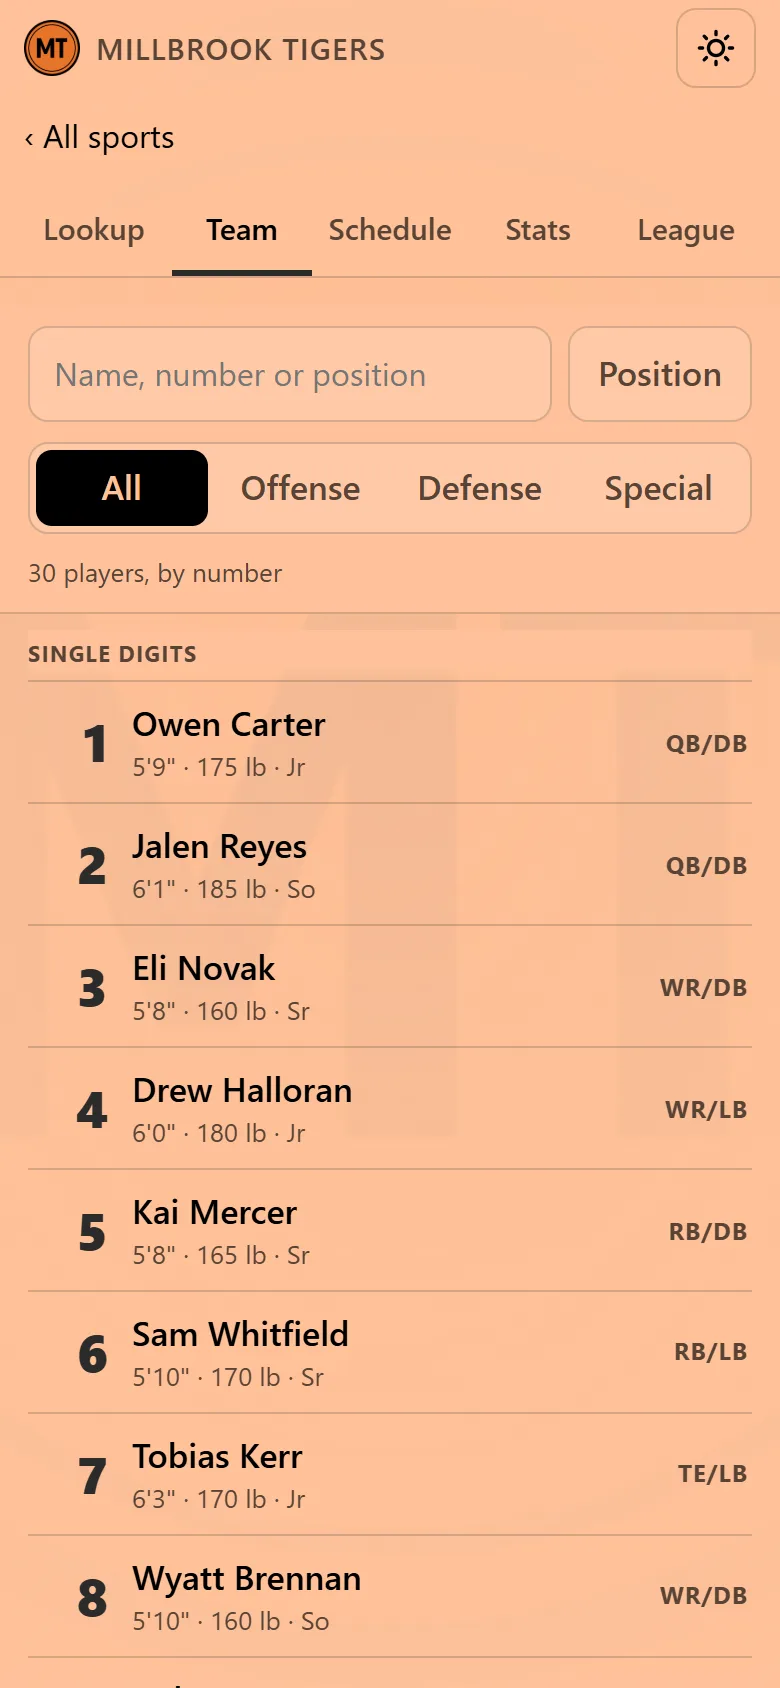
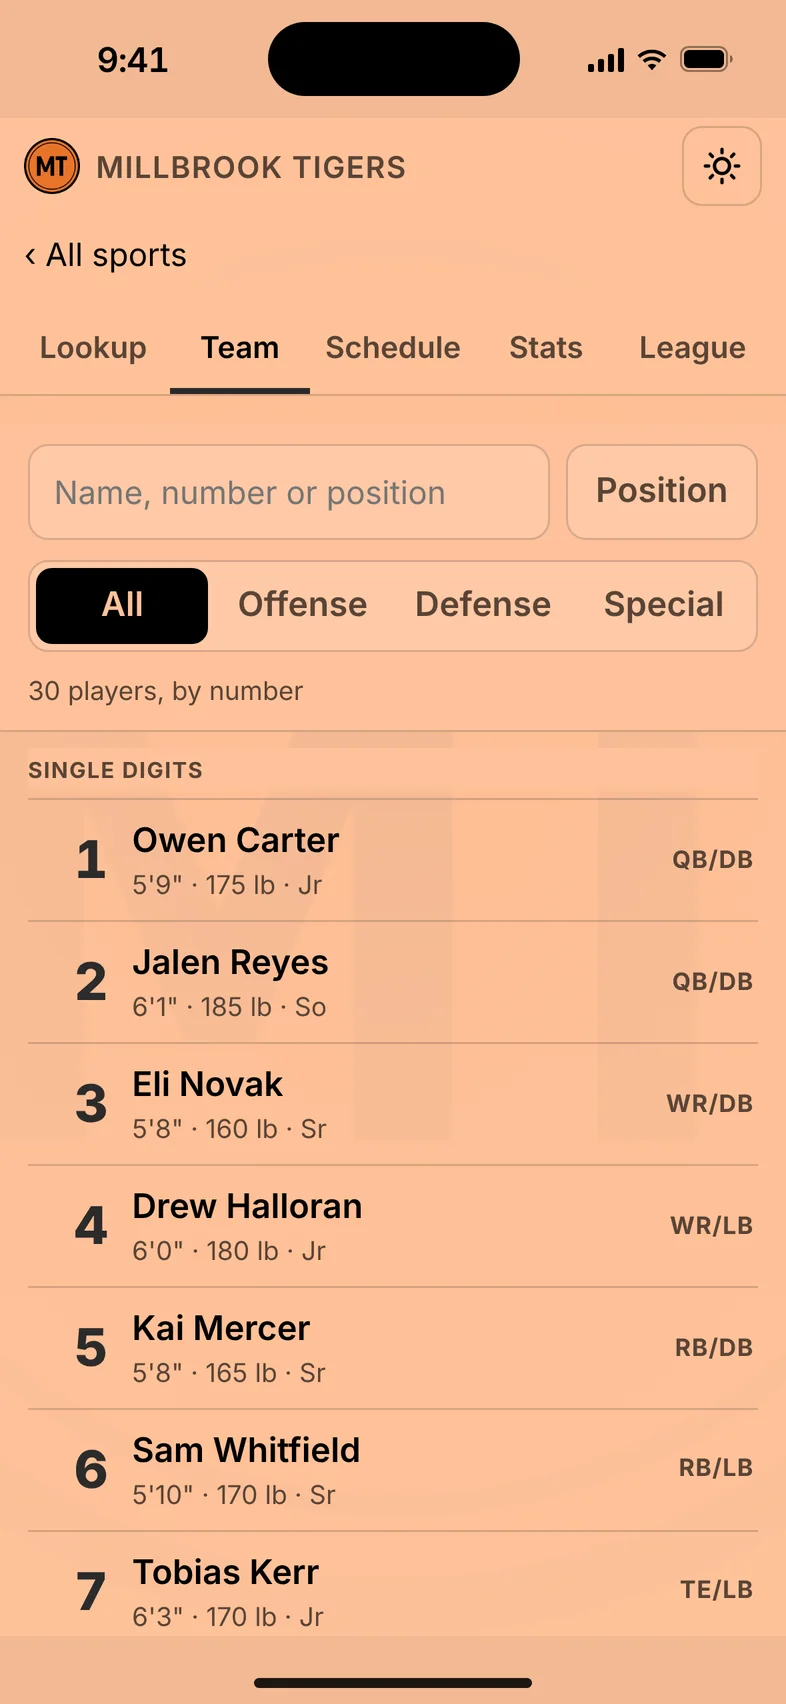
Show the marketing page's screens in real iPhones
The screenshots were flat browser windows in a thin dark border, set in
Segoe UI — nothing a family would see on their own phone. Each one is now a
whole iPhone 15 screen, with the status bar, Dynamic Island and home bar
painted on in the page's own edge colors and the type set in Inter, the
nearest shippable face to the San Francisco an iPhone would use. The page
draws the hardware around them (titanium band, bezel, buttons, glass,
studio shadow) in CSS sized to the figure, and turns the hero phone a
little toward the words on a wide screen. The share card uses the same
frame.

Claude-Session: https://claude.ai/code/session_01DdzeEaDRBYiFfuAv7dHuW6

diff --git a/marketing/index.html b/marketing/index.html
@@ -60,7 +60,7 @@
           </p>
         </div>
         <figure class="phone">
-          <img src="img/lookup.webp" width="390" height="844" alt="The Lookup screen: number 24 typed on a keypad, and the player wearing it above, with his position, size and class." />
+          <div class="device"><img src="img/lookup.webp" width="393" height="852" alt="The Lookup screen: number 24 typed on a keypad, and the player wearing it above, with his position, size and class." /></div>
         </figure>
       </section>
 
@@ -94,19 +94,19 @@
         <h2>A reason to open it every week.</h2>
         <div class="shots">
           <figure class="phone">
-            <img src="img/team.webp" width="390" height="844" loading="lazy" alt="The Team screen: a search box and offense, defense and special-teams filters, then the roster by jersey number with each player’s size, class and position." />
+            <div class="device"><img src="img/team.webp" width="393" height="852" loading="lazy" alt="The Team screen: a search box and offense, defense and special-teams filters, then the roster by jersey number with each player’s size, class and position." /></div>
             <figcaption><strong>Team</strong> Search by name, number or position.</figcaption>
           </figure>
           <figure class="phone">
-            <img src="img/schedule.webp" width="390" height="844" loading="lazy" alt="The Schedule screen: the next game with its kickoff time and forecast, the games still to come, then the games already played with their scores." />
+            <div class="device"><img src="img/schedule.webp" width="393" height="852" loading="lazy" alt="The Schedule screen: the next game with its kickoff time and forecast, the games still to come, then the games already played with their scores." /></div>
             <figcaption><strong>Schedule</strong> The next game first, with the weather at kickoff.</figcaption>
           </figure>
           <figure class="phone">
-            <img src="img/league.webp" width="390" height="844" loading="lazy" alt="The League screen: a conference standings table with each school’s conference and overall record." />
+            <div class="device"><img src="img/league.webp" width="393" height="852" loading="lazy" alt="The League screen: a conference standings table with each school’s conference and overall record." /></div>
             <figcaption><strong>League</strong> Football’s conference standings, kept current through the season.</figcaption>
           </figure>
           <figure class="phone">
-            <img src="img/stats.webp" width="390" height="844" loading="lazy" alt="The Stats screen: season leaders in passing, rushing and receiving, each player’s jersey number beside his yards, touchdowns, and completions, carries or catches." />
+            <div class="device"><img src="img/stats.webp" width="393" height="852" loading="lazy" alt="The Stats screen: season leaders in passing, rushing and receiving, each player’s jersey number beside his yards, touchdowns, and completions, carries or catches." /></div>
             <figcaption><strong>Stats <span class="tag">Advanced</span></strong> Football’s season leaders and every player’s line, from MaxPreps.</figcaption>
           </figure>
         </div>

diff --git a/marketing/site.css b/marketing/site.css
@@ -299,14 +299,71 @@ strong {
 /* --------------------------------------------------------------- phones */
 
 .phone {
+  position: relative;
   margin: 0 auto;
   width: min(100%, 300px);
+  /* The frame below is sized in cqi, hundredths of this figure's width, so
+     it keeps an iPhone's proportions at whatever size the grid gives it. */
+  container-type: inline-size;
 }
-.phone img {
-  border: 6px solid var(--soot);
-  border-radius: 34px;
-  background: var(--soot);
-  box-shadow: 0 30px 80px -30px rgba(232, 93, 47, 0.35);
+
+/* An iPhone drawn around each screen. The pictures are whole phone screens,
+   status bar and home bar already on them (scripts/shoot-marketing.mjs); this
+   is the hardware: a titanium band, a black bezel, the buttons on its sides,
+   a sheen of glass, and a shadow that falls the way a studio light makes it. */
+.device {
+  position: relative;
+  padding: 1.1cqi;
+  border-radius: 17.6cqi;
+  background: linear-gradient(140deg, #9a948c, #e4dfd7 18%, #6e6a64 45%, #c9c3ba 75%, #7c7770);
+  box-shadow:
+    inset 0 0 0 1px rgba(255, 255, 255, 0.3),
+    0 2px 3px rgba(0, 0, 0, 0.45),
+    0 24px 44px -18px rgba(0, 0, 0, 0.8),
+    0 60px 110px -40px rgba(232, 93, 47, 0.32);
+}
+.device img {
+  display: block;
+  width: 100%;
+  height: auto;
+  border: 2.6cqi solid #050505;
+  border-radius: 16.5cqi;
+  background: #050505;
+  box-shadow: 0 0 0 1px rgba(0, 0, 0, 0.6);
+}
+/* Glass catching the light across the top-left of the screen. */
+.device::after {
+  content: '';
+  position: absolute;
+  inset: 3.7cqi;
+  border-radius: 13.9cqi;
+  background: linear-gradient(125deg, rgba(255, 255, 255, 0.14), rgba(255, 255, 255, 0.03) 32%, transparent 48%);
+  pointer-events: none;
+}
+/* The buttons: on the left the action button and the volume pair, drawn as
+   one bar and two copies of its shadow; on the right the side button. */
+.device::before,
+.phone::after {
+  content: '';
+  position: absolute;
+  width: 1cqi;
+  border-radius: 0.6cqi;
+  z-index: -1;
+}
+.device::before {
+  left: -0.7cqi;
+  top: 30cqi;
+  height: 10cqi;
+  background: #8a857e;
+  box-shadow:
+    0 16cqi 0 0 #8a857e,
+    0 31cqi 0 0 #8a857e;
+}
+.phone::after {
+  right: -0.7cqi;
+  top: 46cqi;
+  height: 22cqi;
+  background: #8a857e;
 }
 .phone figcaption {
   margin-top: 16px;
@@ -485,6 +542,11 @@ strong {
   .hero {
     grid-template-columns: minmax(0, 1.25fr) minmax(0, 0.75fr);
     align-items: center;
+  }
+  /* The hero phone turned a little toward the words, the way a product is
+     set on a page of apple.com. */
+  .hero .phone {
+    transform: perspective(1800px) rotateY(-16deg) rotateX(4deg) rotateZ(1deg);
   }
   .two {
     grid-template-columns: repeat(2, minmax(0, 1fr));
